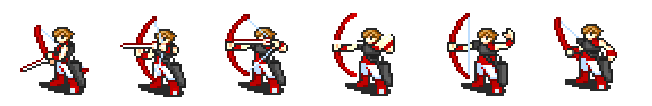
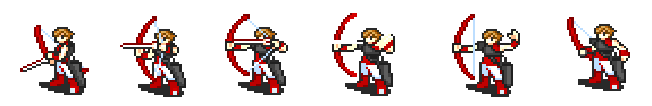
Modifying CArrow&CMainCharacter resource&MainCharacter

Changed region(s): [[0.6748, 0.1132, 0.7975, 0.934], [0.8282, 0.1698, 0.9816, 0.8774]]

diff --git a/CArrow.cpp b/CArrow.cpp
@@ -5,37 +5,51 @@ void CArrow::Init() {
 	m_nHeight = m_imgBitmap.GetHeight();
 	m_nWidth = m_imgBitmap.GetWidth();
 	m_nObjectType = OBJECT_TYPE_ARROW;
-	m_nValue = 100;
-	m_vtCoord = {
-		static_cast<float>(m_nWidth / 2),static_cast<float>(m_nHeight / 2),static_cast<float>()
-	};
+	SetPosition();
+}
+void CArrow::SetPosition() {
 	m_rcPosition = {
-
+		static_cast<LONG>(m_vtCoord.GetX() - m_nWidth),
+		static_cast<LONG>(m_vtCoord.GetY() - m_nHeight),
+		static_cast<LONG>(m_vtCoord.GetX() + m_nWidth),
+		static_cast<LONG>(m_vtCoord.GetY() + m_nHeight)
 	};
-	m_nCoorinate = { 0,0 };
-	m_nDirection_Vector={}
 }
-
-void CArrow::Ready(int mx, int my, bool Click,RECT pos) {
-	m_nPower = 0;
-	m_nCross = sqrt(pow(mx, 2) + pow(my, 2));
-	while (!Click) {
-		if (m_nPower >= m_nCross)
-			m_nPower = m_nCross;
-		else {
-			m_nPower++;
+void CArrow::Ready(int mx, int my) {
+	m_fAngle = atan2f(static_cast<float>(my) - m_vtCoord.GetX(), static_cast<float>(mx) - m_vtCoord.GetY())*180/3.14;
+	m_vtDirect.SetX(m_nPower*cos(m_fAngle));
+	m_vtDirect.SetY(m_nPower*sin(m_fAngle));
+	m_vtDirect.SetZ(0);
+}
+void CArrow::Move() {	
+	m_vtDirect.SetX(m_nPower*cos(m_fAngle));
+	m_vtDirect.SetY(m_nPower*sin(m_fAngle));
+	if (!m_bColision && !m_bDelete) {
+		
 		}
-
+		else {
+			m_vtCoord.Move(m_vtDirect);
+			m_vtDirect.Move(0, -GRAVITY);
+		}
+		SetPosition();
 	}
-	m_nAngle = atan2f(static_cast<float>(my) - pos.top, static_cast<float>(mx) - pos.left)*180/3.14;
-	
-	m_nFy = tanf(m_nAngle);
-	
-
+//	else {
+	//	m_nDeleteTimer++;
+//		if (m_nDeleteTimer >= 120)
+//			m_bDelete = true;
+//	}
+//}
+void CArrow::DrawItem(HDC hdc) {
+	m_imgBitmap.TransparentBlt(hdc, m_rcPosition.left, m_rcPosition.top, m_rcPosition.right, m_rcPosition.bottom);
 }
-void CArrow::Move() {
-	
 
-
-
+const bool&CArrow::IsDelete()const {
+	return m_bDelete;
 }
+void CArrow::Update() {
+	Move();
+}
+
+//void CArrow::LButtonUp(const LPARAM&lParam) {
+
+//}

diff --git a/CMainCharacter.cpp b/CMainCharacter.cpp
@@ -42,9 +42,9 @@ int CMainCharacter::Attack() {
 		}
 		else
 		{
-				m_nFrame++;
-				return UNIT_ATTACK;
-	}
+			m_nFrame++;
+		}
+		return 0;
 }
 
 void CMainCharacter::SetFrameType(const int &nType) {
@@ -59,12 +59,12 @@ int CMainCharacter::Dead() {
 
 int CMainCharacter::Update() {
 	int tmp = 0;
-	if (m_nFrameType == TYPE_ATTACK)
+	if (m_nFrameType == TYPE_WALK)
+		Move();
+	else if (m_nFrameType == TYPE_ATTACK)
 		tmp = Attack();
-	if (tmp != 0)
 		return tmp;
-	else
-		return 0;
+	
 }
 int CMainCharacter::GetKey(const WPARAM&wParam) {
 	switch (wParam) {
@@ -75,7 +75,7 @@ int CMainCharacter::GetKey(const WPARAM&wParam) {
 			m_vtCoord.SetZ(m_vtCoord.GetZ());
 		}
 		else {
-			m_nMoving={static_cast<float>(10),static_cast<float>(-20),static_cast<float>(1)/10.f };
+			m_nMoving={static_cast<float>(0),static_cast<float>(-20),static_cast<float>(1)/10.f };
 		
 			m_vtCoord.Move(m_nMoving, true);
 			SetPosition();
@@ -88,7 +88,7 @@ int CMainCharacter::GetKey(const WPARAM&wParam) {
 			m_vtCoord.SetZ(m_vtCoord.GetZ());
 		}
 		else {
-			m_nMoving = { static_cast<float>(-10),static_cast<float>(20),static_cast<float>(-1) / 10.f };
+			m_nMoving = { static_cast<float>(0),static_cast<float>(20),static_cast<float>(-1) / 10.f };
 			
 			m_vtCoord.Move(m_nMoving, true);
 			SetPosition();
@@ -104,16 +104,9 @@ void CMainCharacter::MouseMove(const LPARAM&lParam) {
 }
 void CMainCharacter::LButtonDown(const LPARAM&lParam) {
 	m_nFrameType = TYPE_ATTACK;
-	if ((m_nFrame / 4) >= m_sprImg.MaxFrame(m_nFrameType) - 1) {
-		m_nFrame = 0;
-	}
-	else
-	{
-			m_nFrame++;
-	}
-
 }
 int CMainCharacter::LButtonUp(const LPARAM&lParam) {
 	m_nFrameType = TYPE_WALK;
+	m_nFrame = 0;
 	return Damage;
 }

diff --git a/CMainCharacter.h b/CMainCharacter.h
@@ -3,9 +3,10 @@
 #define MAXZ 1.4
 #define MINZ 1.0
 class CMainCharacter :public CObject {
-	bool m_nClick;
+	bool m_bClick;
 	CVector3D m_nMoving;
 	int Damage;
+	CVector3D m_vtMouse;
 public:
 	CMainCharacter(CSoundManager* sound) : CObject(sound) {}
 
